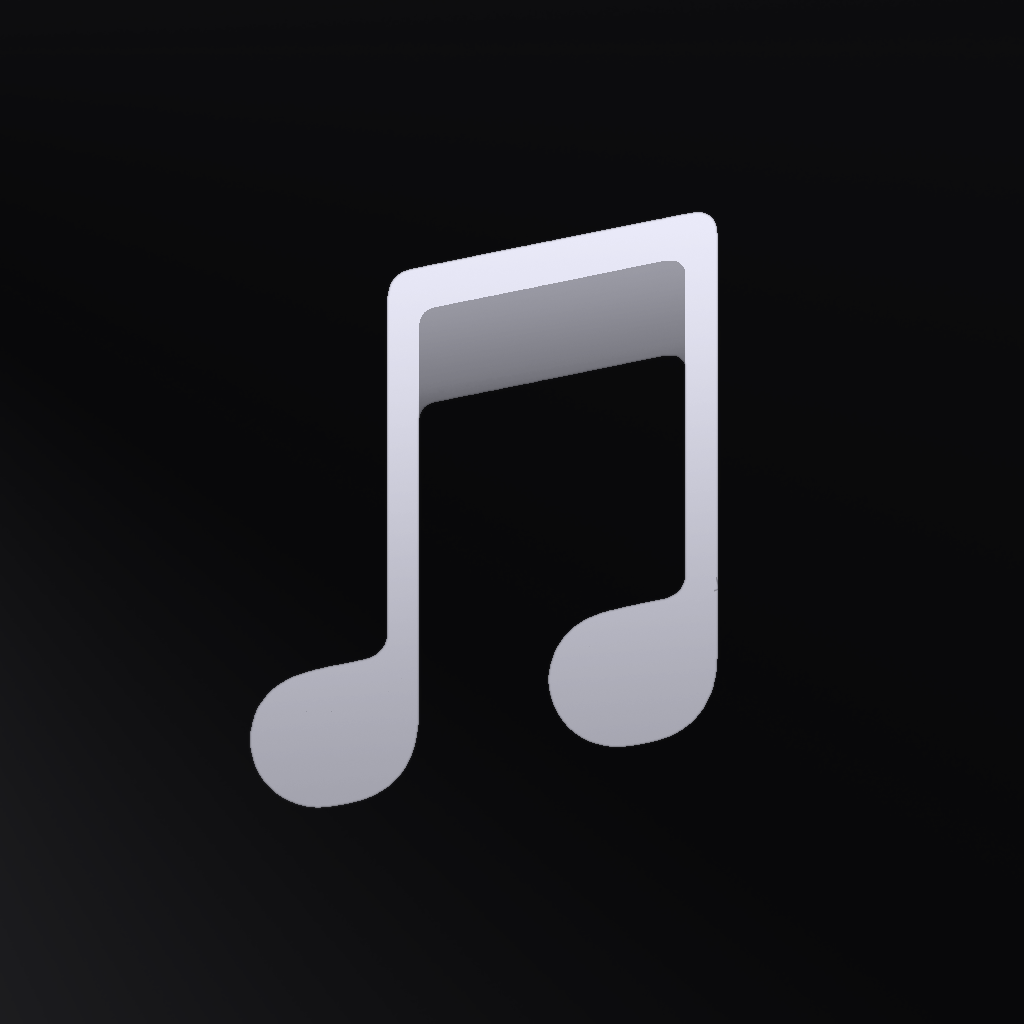
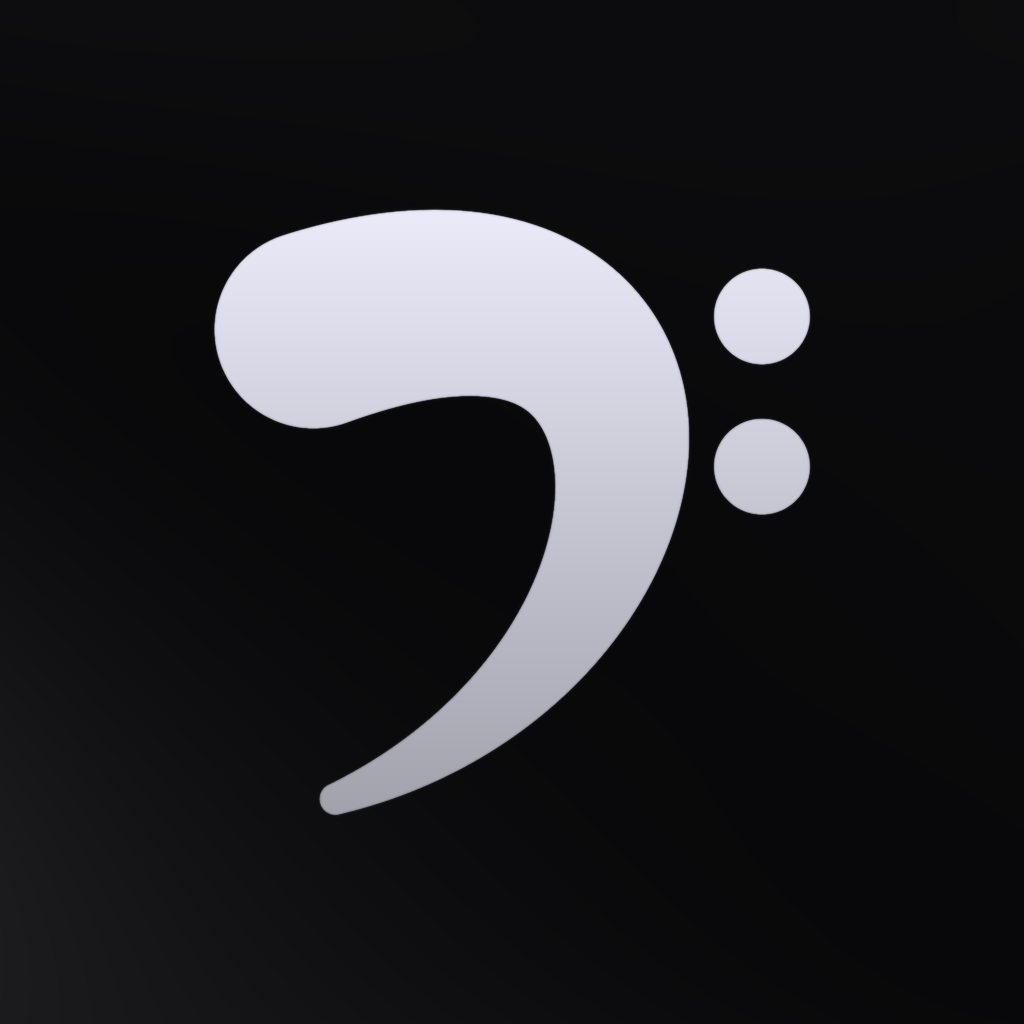
NonoEnd 图标改用低音谱号
沿用原有的渐变与光效材质，浅色、深色、单色三种外观同步更新。

Changed region(s): [[0.1875, 0.1875, 0.8125, 0.8125]]

diff --git a/IconDesign/AppIcons2026/README.md b/IconDesign/AppIcons2026/README.md
@@ -3,7 +3,7 @@
 The production catalog contains one primary icon and six alternates:
 
 - `00-splash.png` — primary icon: a milky-white dimensional splash with an engraved ring and a note in its opening, on solid berry pink.
-- `16-nonoend.png` — NonoEnd: a pink-violet beamed eighth-note pair. Light sets it on a neutral grey gradient with a white edge and a soft cast shadow; Dark sets the same note on a deep indigo-to-plum plate.
+- `16-nonoend.png` — NonoEnd: a pink-violet bass clef. Light sets it on a neutral grey gradient with a top-left rim light and a cast shadow; Dark sets the same clef on a deep indigo-to-plum plate.
 - `14-letter-p.png` — the letter P in the same material in pure white on solid cobalt blue. Its bowl is an open counter; the note sits at the lower right on the P's own baseline, where its stem and flag double as a lowercase r — together they read Pr.
 - `15-folded-note.png` — the previous primary folded-note icon, retained as an alternate.
 - `12-pikaqiu.png` — user-submitted gradient music-note icon on an adaptive light, dark, or tinted background.
@@ -18,7 +18,7 @@ The folded note, Pikaqiu, and soft note preserve their Light, Dark, and Tinted P
 
 Splash and Letter P share one material: a white glyph with its own shading and a soft cast shadow over a single solid colour. Their Dark variants keep the identical composition with a colour-tinted glyph on charcoal, and their Tinted variants use a silver glyph on near-black.
 
-NonoEnd ships two supplied plates, Light and Dark, both used as delivered. Their note masks coincide pixel for pixel, so switching appearance never shifts the artwork. The Tinted variant is derived from the Dark plate: its backdrop never rises above ~55 luminance and its note never falls below ~85, so one soft luminance threshold separates them — the field drops to near-black and the note is lifted into the light band.
+NonoEnd started from two supplied plates carrying a beamed eighth-note pair. That composition — a rounded square with a centred beamed pair — reads as Apple Music's, so the glyph was replaced with a bass clef while the plates and the material were kept. The clef is drawn as a signed-distance stroke field (a sampled centre line plus a half-width that tapers along it), then dressed in the material measured off the original artwork: a linear vertical fill from (248,135,231) at the top to (161,87,204) at the bottom, and, on the Light plate only, a white rim up-left with a cast shadow down-right, matching a top-left key light. Both backdrops are polynomial fits of the supplied plates taken well clear of the old glyph and its shadow (residual rms 0.46 Light, 0.83 Dark), so the grounds are the delivered ones. The Tinted variant is derived from the rebuilt Dark plate: its backdrop never rises above ~55 luminance and its glyph never falls below ~85, so one soft luminance threshold separates them — the field drops to near-black and the glyph is lifted into the light band.
 
 Chris’s Muse preserves the artwork from `13-chris-muse-light-original.jpg` and `13-chris-muse-dark-original.jpg`. The supplied rounded outer rim is removed so platform masking does not create a second edge; the note's dimensional highlights are retained. Its Tinted variant uses a silver-white note on charcoal. The selected original JPEGs are retained alongside the prepared PNGs in `raw/`.
 
